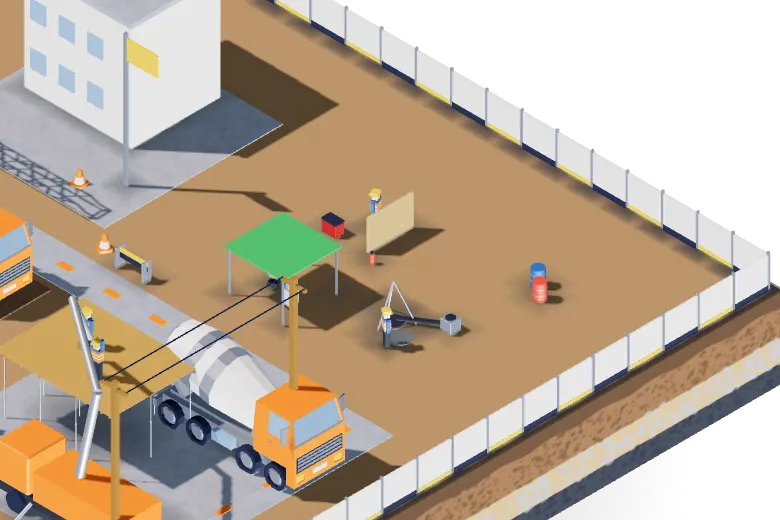
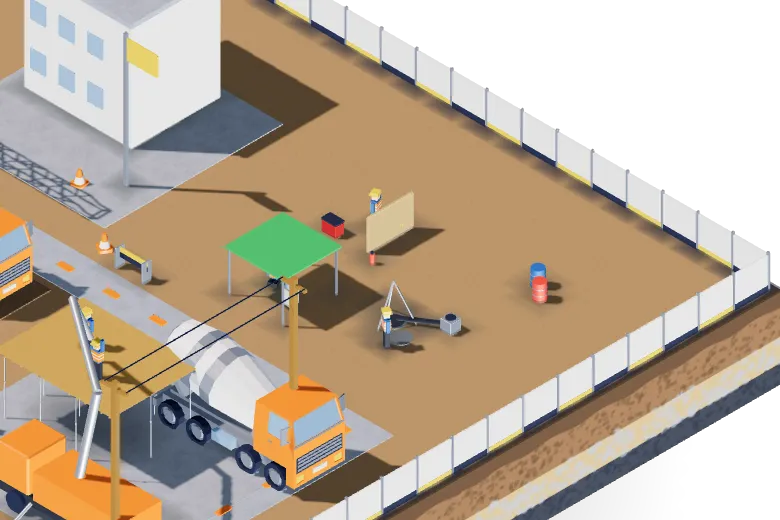
v19.4: 지도의 건설용 리프트 철망을 더 진하게 — 지도용 철망 판만 바탕을 진하게·철선 굵게·색 한 단계 어둡게, 지도·구역 미리 렌더링 다시

diff --git a/js/learn/models/constructionHoist.js b/js/learn/models/constructionHoist.js
@@ -15,11 +15,26 @@
 export const HOIST = { cageW: 3.0, cageD: 1.4, cageH: 2.2, mast: 0.65, section: 1.508, gap: 0.05, gateH: 2.1, enclosureH: 1.8, tieFirst: 6, tieEvery: 18 };
 
 const tok = (n) => getComputedStyle(document.documentElement).getPropertyValue(n).trim() || '#888888';
-let meshTex = null;
+let meshTex = null, meshTexFar = null;
 // 철망: 가는 격자 알파 텍스처 (속이 비쳐 보이게)
 const meshMats = new Map();
-function meshMat(THREE, M, key = 'steel', cell = 0.06) {
-  if (meshMats.has(key) && meshMats.get(key).userData.M === M) return meshMats.get(key);
+// far(지도용): 멀리서 작게 보이므로 바탕을 더 진하게(알파 약 0.55) 하고 철선을 굵게, 색은 한 단계 어둡게 — v19.4
+function farTex(THREE) {
+  if (!meshTexFar) {
+    const c = document.createElement('canvas'); c.width = c.height = 32; const g = c.getContext('2d');
+    g.fillStyle = 'rgb(140,140,140)'; g.fillRect(0, 0, 32, 32); g.strokeStyle = 'rgb(255,255,255)'; g.lineWidth = 6;
+    for (const p of [3]) { g.beginPath(); g.moveTo(p, 0); g.lineTo(p, 32); g.stroke(); g.beginPath(); g.moveTo(0, p); g.lineTo(32, p); g.stroke(); }
+    meshTexFar = new THREE.CanvasTexture(c); meshTexFar.wrapS = meshTexFar.wrapT = THREE.RepeatWrapping;
+  }
+  return meshTexFar;
+}
+function meshMat(THREE, M, key = 'steel', cell = 0.06, far = false) {
+  const mk = far ? key + '|far' : key;
+  if (meshMats.has(mk) && meshMats.get(mk).userData.M === M) return meshMats.get(mk);
+  if (far) {
+    const base = M(key); const m = new THREE.MeshStandardMaterial({ color: base.color.clone().multiplyScalar(0.62), roughness: 0.6, metalness: 0.3, alphaMap: farTex(THREE), transparent: true, alphaTest: 0.05, depthWrite: false, side: THREE.DoubleSide });
+    m.userData = { kind: base.userData?.kind || 'steel', meshCell: cell, M, far: true }; meshMats.set(mk, m); return m;
+  }
   if (!meshTex) {
     const c = document.createElement('canvas'); c.width = c.height = 64; const g = c.getContext('2d');
     g.fillStyle = 'rgb(56,56,56)'; g.fillRect(0, 0, 64, 64); g.strokeStyle = 'rgb(255,255,255)'; g.lineWidth = 6; // 바탕 알파 약 0.22 + 철선 1.0
@@ -27,12 +42,12 @@ function meshMat(THREE, M, key = 'steel', cell = 0.06) {
     meshTex = new THREE.CanvasTexture(c); meshTex.wrapS = meshTex.wrapT = THREE.RepeatWrapping;
   }
   const base = M(key); const m = new THREE.MeshStandardMaterial({ color: base.color.clone(), roughness: 0.5, metalness: 0.45, alphaMap: meshTex, transparent: true, alphaTest: 0.05, depthWrite: false, side: THREE.DoubleSide });
-  m.userData = { kind: base.userData?.kind || 'steel', meshCell: cell, M }; meshMats.set(key, m); return m;
+  m.userData = { kind: base.userData?.kind || 'steel', meshCell: cell, M }; meshMats.set(mk, m); return m;
 }
 // 철망 판 하나 (w × h, 수직, z 쪽을 향함) — 셀 크기를 판 크기에 맞춤
-function meshPanel(THREE, M, w, h, key) {
-  const m = meshMat(THREE, M, key); const geo = new THREE.PlaneGeometry(w, h);
-  const uv = geo.attributes.uv; for (let i = 0; i < uv.count; i++) uv.setXY(i, uv.getX(i) * w / 0.12, uv.getY(i) * h / 0.12);
+function meshPanel(THREE, M, w, h, key, far = false) {
+  const m = meshMat(THREE, M, key, 0.06, far); const geo = new THREE.PlaneGeometry(w, h); const cell = far ? 0.3 : 0.12;
+  const uv = geo.attributes.uv; for (let i = 0; i < uv.count; i++) uv.setXY(i, uv.getX(i) * w / cell, uv.getY(i) * h / cell);
   const p = new THREE.Mesh(geo, m); p.castShadow = true; return p;
 }
 
@@ -59,7 +74,7 @@ export function makeCage(THREE, M, o = {}, RB = null) {
     // 철망 벽: 바깥쪽 옆면·뒤 위쪽
     const sideMesh = meshPanel(THREE, M, D - 0.08, Hh - 0.38, ST); sideMesh.rotation.y = Math.PI / 2; sideMesh.position.set(-side * W / 2, 0.32 + (Hh - 0.38) / 2, 0); cage.add(sideMesh);
     const innerMesh = meshPanel(THREE, M, D - 0.08, Hh - 0.1, ST); innerMesh.rotation.y = Math.PI / 2; innerMesh.position.set(side * W / 2, (Hh - 0.1) / 2 + 0.02, 0); cage.add(innerMesh); // 마스트 쪽
-  } else { for (const sx of [-side, side]) { const pm = meshPanel(THREE, M, D, Hh - 0.32, ST); pm.rotation.y = Math.PI / 2; pm.position.set(sx * W / 2, 0.32 + (Hh - 0.32) / 2, 0); cage.add(pm); } }
+  } else { for (const sx of [-side, side]) { const pm = meshPanel(THREE, M, D, Hh - 0.32, ST, true); pm.rotation.y = Math.PI / 2; pm.position.set(sx * W / 2, 0.32 + (Hh - 0.32) / 2, 0); cage.add(pm); } }
   // 지붕판 + 지붕 위 난간(110cm 상부난간대 + 중간난간대, 별표 3 제16호)
   box(W + 0.06, 0.06, D + 0.06, 'steel', 0, Hh, 0, cage);
   const roof = node('cage_roof_rail', cage);
@@ -72,7 +87,7 @@ export function makeCage(THREE, M, o = {}, RB = null) {
     for (const x of [-fw / 2, fw / 2]) box(0.05, fh, 0.05, FR, x, 0.02, 0, d);
     for (const y of [0.02, fh - 0.03, 1.0]) box(fw, 0.05, 0.05, FR, 0, y, 0, d);
     if (lod === 'near') { const p = meshPanel(THREE, M, fw - 0.06, fh - 0.08, ST); p.position.set(0, fh / 2 + 0.02, 0); d.add(p); }
-    else { const p = meshPanel(THREE, M, fw, fh, ST); p.position.set(0, fh / 2 + 0.02, 0); d.add(p); }
+    else { const p = meshPanel(THREE, M, fw, fh, ST, true); p.position.set(0, fh / 2 + 0.02, 0); d.add(p); }
     return d;
   };
   // 앞문(층 쪽): 경사로식 — 아래 경첩, 열리면 바깥으로 눕혀져 층 발판 위에 걸치는 발판이 됨 (제조사 "gate and ramp" 방식, 모양 참고)
@@ -111,7 +126,7 @@ export function makeLandingGate(THREE, M, o = {}, RB = null) {
     for (const x of [-lw / 2, lw / 2]) box(0.045, H - 0.05, 0.045, FR, x, 0.04, 0, l);
     for (const y of [0.04, H - 0.06, 1.0]) box(lw, 0.045, 0.045, FR, 0, y, 0, l);
     if (lod === 'near') { const p = meshPanel(THREE, M, lw - 0.05, H - 0.12, 'steel'); p.position.set(0, H / 2, 0); l.add(p); }
-    else { const p = meshPanel(THREE, M, lw, H - 0.1, 'steel'); p.position.set(0, H / 2, 0); l.add(p); }
+    else { const p = meshPanel(THREE, M, lw, H - 0.1, 'steel', true); p.position.set(0, H / 2, 0); l.add(p); }
   };
   leaf(-1); leaf(1);
   // 열린 문짝이 밀려 들어갈 옆 고정 철망 (문틀 밖)
@@ -149,7 +164,7 @@ export function makeConstructionHoist(THREE, M, opts = {}, RB = null) {
     if (lod === 'near') for (const [x, z] of cs) box(0.13, 0.025, 0.13, GALV, x, y0 - 0.012, mastZ + z, mast); // 섹션 이음판(플랜지)
   }
   box(m + 0.1, 0.05, m + 0.1, GALV, 0, top, mastZ, mast); // 최상단 덮개
-  if (lod === 'far') for (let f = 0; f < 4; f++) { const p = meshPanel(THREE, M, m, top - 0.2, 'steel:--art-dark'); p.rotation.y = (f * Math.PI) / 2; p.position.set(Math.sin(f * Math.PI / 2) * m / 2, 0.15 + (top - 0.2) / 2, mastZ + Math.cos(f * Math.PI / 2) * m / 2); mast.add(p); }
+  if (lod === 'far') for (let f = 0; f < 4; f++) { const p = meshPanel(THREE, M, m, top - 0.2, 'steel:--art-dark', true); p.rotation.y = (f * Math.PI) / 2; p.position.set(Math.sin(f * Math.PI / 2) * m / 2, 0.15 + (top - 0.2) / 2, mastZ + Math.cos(f * Math.PI / 2) * m / 2); mast.add(p); }
   // 랙: 운반구 쪽 면(±x)에 세로 톱니 막대
   const rack = node('rack', root);
   for (const s of sides) {
@@ -168,7 +183,7 @@ export function makeConstructionHoist(THREE, M, opts = {}, RB = null) {
   const fence = (a, b, skipMid) => { const len = Math.hypot(b[0] - a[0], b[1] - a[1]), n = Math.max(1, Math.round(len / 2)); for (let i = 0; i <= n; i++) box(0.06, eH, 0.06, 'paint:yellow', a[0] + (b[0] - a[0]) * i / n, 0, a[1] + (b[1] - a[1]) * i / n, enc);
     for (let i = 0; i < n; i++) { if (skipMid && i === Math.floor(n / 2)) { const xa = a[0] + (b[0] - a[0]) * i / n, xb = a[0] + (b[0] - a[0]) * (i + 1) / n; encDoor = { x0: xa, x1: xb, z: a[1] }; continue; } const x0 = a[0] + (b[0] - a[0]) * i / n, z0 = a[1] + (b[1] - a[1]) * i / n, x1 = a[0] + (b[0] - a[0]) * (i + 1) / n, z1 = a[1] + (b[1] - a[1]) * (i + 1) / n, sl = Math.hypot(x1 - x0, z1 - z0);
       if (lod === 'near') { const p = meshPanel(THREE, M, sl - 0.06, eH - 0.12, 'steel'); p.position.set((x0 + x1) / 2, eH / 2 + 0.04, (z0 + z1) / 2); p.rotation.y = -Math.atan2(z1 - z0, x1 - x0); enc.add(p); }
-      else { const p = meshPanel(THREE, M, sl - 0.06, eH - 0.1, 'steel'); p.position.set((x0 + x1) / 2, eH / 2, (z0 + z1) / 2); p.rotation.y = -Math.atan2(z1 - z0, x1 - x0); enc.add(p); }
+      else { const p = meshPanel(THREE, M, sl - 0.06, eH - 0.1, 'steel', true); p.position.set((x0 + x1) / 2, eH / 2, (z0 + z1) / 2); p.rotation.y = -Math.atan2(z1 - z0, x1 - x0); enc.add(p); }
       if (lod === 'near') rod([x0, eH, z0], [x1, eH, z1], 0.025, 'paint:yellow', enc); } };
   fence([-ex / 2, ez1], [ex / 2, ez1], true); fence([-ex / 2, ez0], [-ex / 2, ez1]); fence([ex / 2, ez0], [ex / 2, ez1]);
   // 방호울 출입문 (철망 + 노랑 테, 닫힘). 장면에서 열고 닫을 때는 이 노드를 숨기고 makeEnclosureDoor 로 따로 그림

diff --git a/sw.js b/sw.js
@@ -1,5 +1,5 @@
 // 첫 삽 서비스 워커 — 앱 파일은 미리 저장(오프라인 실행), 글꼴은 처음 받을 때 저장, 날씨·Firebase는 항상 네트워크
-const VERSION = 'cheotsap-v19.3';
+const VERSION = 'cheotsap-v19.4';
 const CORE = [
   './', './index.html', './game.html', './css/tokens.css', './css/learn.css', './js/learn/app.js', './js/learn/mascot.js', './js/learn/site3d.js', './js/learn/scene3d.js', './js/learn/props3d.js', './data/prerender.json',
   // v18: 재질 세트·근로자 모델·베벨·CC0 모델·질감·HDRI

diff --git a/docs/첫삽_프로젝트_개요.md b/docs/첫삽_프로젝트_개요.md
@@ -117,6 +117,7 @@
 | **v19.1** | **11/24** | **건설용 리프트 재제작** — 마스트·랙·운반구·층 출입문·연결 발판·하부 방호울·완충기, 별표 3 기준 치수, 층 출입문 장면 쌍: 랙앤피니언식 리프트를 코드로 새로 만듦(`models/constructionHoist.js`, 부품마다 이름 붙인 노드, 장면용 약 10만 면 / 지도용 1,988면) · 마스트(1.508m 섹션·가새), 랙 톱니, 벽 연결재(6m 이내·18m 이내), 운반구(3.0×1.4×2.2, 경사로식 앞문, 지붕 난간, 구동부, 조작반, 적재하중 그림 표시), 층 출입문(경광등)·연결 발판(1.1m 난간), 하부 방호울 1.8m·방호선반, 완충기, 케이블 · 3-3 "문이 열린 리프트"를 3층 슬래브 위 근로자 눈높이로(위험: 운반구가 한 층 위, 열린 문 너머 빈 승강로 / 안전: 운반구 도착, 앞문이 발판 위로 내려옴) · 양중 장면을 층이 보이는 골조 + 슬래브 끝 난간으로 · 지도 양중 구역에 리프트(운반구가 층 사이를 오르내림, 동작 줄이기면 정지) · 근거 `sources.json`에 「위험기계·기구 안전인증 고시」(제2023-46호) [별표 3] 제9·14·15·16호 5건(원문확인) · `docs/장면검수.md`, `art/spec/참고링크.md` | 사용자: 리프트가 벽에 붙은 노란 상자처럼 보여 알아볼 수 없다 (v19 리프트 상세 프롬프트). 영상은 열 수 없어 "구글에 검색해서 알아서 제작" 지시에 따라 웹 자료로 형태를 정함 | 완료 |
 | **v19** | **11/24** | **v19: 문제마다 상황 문장(글→그림→선택), 주목 영역 스포트라이트, 그림만 모드 아이콘 띠, 한 장면 한 판단 원칙으로 장면 재구성, 랙앤피니언 건설용 리프트 재제작** — 위험 31개마다 `scenes.json`에 `situation`(상황 문장, 굵은 말 = 그림 속 번호 표식, 답은 말하지 않음, 출처·status) · `iconStrip`([누가]+[어디서]+[무엇을]+? 그림 문장 띠) · `diffPart`(차이 부분) · 가요/멈춰요: 그림 문장 띠 + 상황 문장 + 질문 → 그림 0.5초 → 주목 영역 스포트라이트(주변 30% 어둡게, 주황 점선 원 1초) → 선택 버튼 켜짐, "다시 보기"(눈) · 답한 뒤 맞아도 틀려도 "왜" 화면(위험/안전 두 장 + 차이 부분 확대 원·돋보기 + 한 줄 + 근거 배지) · 찾은 위험 카드·현장 안전 카드에 상황 문장 · 장소·행동 아이콘 27개 새로 그림 · 비교 그림마다 주목 영역·번호 표식·차이 부분 위치를 3D에서 계산해 `prerender.json`에 · 장면 재구성: 2-1(같은 층 발판 위 눈높이), 2-3(가까이, 앞 소품 치움), 1-2·2-4·4-3·5-1·6-4(가까이·눈높이), 3-1·6-3 구도 조정, 양중 장면 넓게 · **새 위험 2개**: 3-5 적재하중을 넘겨 실은 운반구(안전보건규칙 제135조, 별표 3 제16호), 3-6 리프트 방호울 안에 들어간 사람(안전보건규칙 제20조 제6호 가목, 별표 3 제14호, 기본서 12쪽) — 위험 29→31개 · `docs/장면검수.md` 31개 장면 3초 테스트(합격 30, 보통 1) | 사용자: 문제를 풀 때 그림에서 무엇을 보고 골라야 하는지 모르겠다(건축공학 4년 배운 사람도), 리프트를 알아볼 수 없다 (v19 프롬프트) · "새 위험 2개 추가하고 구성 남은 것도 진행" | 완료 (그림만 모드는 v14부터 꺼져 있어 아이콘 띠를 글과 함께 늘 보여 줌) |
 | v19.3 | 11/24 | 건설용 리프트 "안 그려진 부분" 고침 — 철망(운반구 벽·층 출입문·하부 방호울)이 멀리서 사라지던 문제: 가는 선만 남기던 방식을 옅은 바탕 + 진한 철선(알파 섞기)으로 바꿔 거리와 상관없이 연회색 망으로 보이게 · 지도용 리프트도 반투명 상자 대신 철망 판, 마스트는 네 면을 격자로 감싼 사각 기둥(1,956면) · 양중 장면·지도 다시 렌더링 | 사용자: 그림에 안 그려진 부분이 있다(건설용 리프트) | 완료 |
+| v19.4 | 11/24 | 지도(현장 한 바퀴)의 건설용 리프트 철망을 더 진하게 — 지도용(far) 철망 판만 따로: 바탕 알파 약 0.22 → 0.55, 철선 굵게(칸 0.12 → 0.3m), 색 한 단계 어둡게. 지도·구역 미리 렌더링 다시 | v19.3 보고 뒤 사용자 요청("진하게 해") — 지도에서 운반구 철망이 옅게 보임 | 완료 |
 | v20 | ~11/30 | 장면 점검 A·B형, 전문가 검토 반영, 예비 시험 준비, 실기기 성능 측정 | | 예정 |
 | 최종 | 12/7 | 캡스톤 마무리·발표 | | 예정 |
 

diff --git a/CHANGELOG.md b/CHANGELOG.md
@@ -24,5 +24,6 @@
 | **v19.1** | **11/24** | **건설용 리프트 재제작** — 마스트·랙·운반구·층 출입문·연결 발판·하부 방호울·완충기, 별표 3 기준 치수, 층 출입문 장면 쌍: 랙앤피니언식 리프트를 코드로 새로 만듦(`models/constructionHoist.js`, 부품마다 이름 붙인 노드, 장면용 약 10만 면 / 지도용 1,988면) · 마스트(1.508m 섹션·가새), 랙 톱니, 벽 연결재(6m 이내·18m 이내), 운반구(3.0×1.4×2.2, 경사로식 앞문, 지붕 난간, 구동부, 조작반, 적재하중 그림 표시), 층 출입문(경광등)·연결 발판(1.1m 난간), 하부 방호울 1.8m·방호선반, 완충기, 케이블 · 3-3 "문이 열린 리프트"를 3층 슬래브 위 근로자 눈높이로(위험: 운반구가 한 층 위, 열린 문 너머 빈 승강로 / 안전: 운반구 도착, 앞문이 발판 위로 내려옴) · 양중 장면을 층이 보이는 골조 + 슬래브 끝 난간으로 · 지도 양중 구역에 리프트(운반구가 층 사이를 오르내림, 동작 줄이기면 정지) · 근거 `sources.json`에 「위험기계·기구 안전인증 고시」(제2023-46호) [별표 3] 제9·14·15·16호 5건(원문확인) · `docs/장면검수.md`, `art/spec/참고링크.md` | 사용자: 리프트가 벽에 붙은 노란 상자처럼 보여 알아볼 수 없다 (v19 리프트 상세 프롬프트). 영상은 열 수 없어 "구글에 검색해서 알아서 제작" 지시에 따라 웹 자료로 형태를 정함 | 완료 |
 | **v19** | **11/24** | **v19: 문제마다 상황 문장(글→그림→선택), 주목 영역 스포트라이트, 그림만 모드 아이콘 띠, 한 장면 한 판단 원칙으로 장면 재구성, 랙앤피니언 건설용 리프트 재제작** — 위험 31개마다 `scenes.json`에 `situation`(상황 문장, 굵은 말 = 그림 속 번호 표식, 답은 말하지 않음, 출처·status) · `iconStrip`([누가]+[어디서]+[무엇을]+? 그림 문장 띠) · `diffPart`(차이 부분) · 가요/멈춰요: 그림 문장 띠 + 상황 문장 + 질문 → 그림 0.5초 → 주목 영역 스포트라이트(주변 30% 어둡게, 주황 점선 원 1초) → 선택 버튼 켜짐, "다시 보기"(눈) · 답한 뒤 맞아도 틀려도 "왜" 화면(위험/안전 두 장 + 차이 부분 확대 원·돋보기 + 한 줄 + 근거 배지) · 찾은 위험 카드·현장 안전 카드에 상황 문장 · 장소·행동 아이콘 27개 새로 그림 · 비교 그림마다 주목 영역·번호 표식·차이 부분 위치를 3D에서 계산해 `prerender.json`에 · 장면 재구성: 2-1(같은 층 발판 위 눈높이), 2-3(가까이, 앞 소품 치움), 1-2·2-4·4-3·5-1·6-4(가까이·눈높이), 3-1·6-3 구도 조정, 양중 장면 넓게 · **새 위험 2개**: 3-5 적재하중을 넘겨 실은 운반구(안전보건규칙 제135조, 별표 3 제16호), 3-6 리프트 방호울 안에 들어간 사람(안전보건규칙 제20조 제6호 가목, 별표 3 제14호, 기본서 12쪽) — 위험 29→31개 · `docs/장면검수.md` 31개 장면 3초 테스트(합격 30, 보통 1) | 사용자: 문제를 풀 때 그림에서 무엇을 보고 골라야 하는지 모르겠다(건축공학 4년 배운 사람도), 리프트를 알아볼 수 없다 (v19 프롬프트) · "새 위험 2개 추가하고 구성 남은 것도 진행" | 완료 (그림만 모드는 v14부터 꺼져 있어 아이콘 띠를 글과 함께 늘 보여 줌) |
 | v19.3 | 11/24 | 건설용 리프트 "안 그려진 부분" 고침 — 철망(운반구 벽·층 출입문·하부 방호울)이 멀리서 사라지던 문제: 가는 선만 남기던 방식을 옅은 바탕 + 진한 철선(알파 섞기)으로 바꿔 거리와 상관없이 연회색 망으로 보이게 · 지도용 리프트도 반투명 상자 대신 철망 판, 마스트는 네 면을 격자로 감싼 사각 기둥(1,956면) · 양중 장면·지도 다시 렌더링 | 사용자: 그림에 안 그려진 부분이 있다(건설용 리프트) | 완료 |
+| v19.4 | 11/24 | 지도(현장 한 바퀴)의 건설용 리프트 철망을 더 진하게 — 지도용(far) 철망 판만 따로: 바탕 알파 약 0.22 → 0.55, 철선 굵게(칸 0.12 → 0.3m), 색 한 단계 어둡게. 지도·구역 미리 렌더링 다시 | v19.3 보고 뒤 사용자 요청("진하게 해") — 지도에서 운반구 철망이 옅게 보임 | 완료 |
 | v20 | ~11/30 | 장면 점검 A·B형, 전문가 검토 반영, 예비 시험 준비, 실기기 성능 측정 | | 예정 |
 | 최종 | 12/7 | 캡스톤 발표 | | 예정 |

diff --git a/docs/모델_치수.md b/docs/모델_치수.md
@@ -75,3 +75,4 @@
 - 성능: GLB가 아니라 코드 모델이어서 에셋 파일은 0바이트입니다(코드 약 15KB). 장면용 전체(마스트 16.5m, 4개 층 출입문, 운반구 2대)는 약 10만 면이고, 미리 렌더링에만 씁니다. 지도용 단순 버전(`lod:'far'`, 운반구 1대, 2개 층)은 1,988면입니다(2,000면 이하).
 
 - 철망 표현(v19.3): 철망 판은 알파 텍스처(바탕 약 0.22 + 철선 1.0)를 섞어 그립니다. 가는 선을 잘라 내는 방식(alphaTest)은 멀리서 선이 흐려지면 판 전체가 사라져 v19.3에서 바꿨습니다.
+- 지도용 철망(v19.4): 지도에서는 리프트가 작게 보여 철망이 옅어지므로, far 철망 판만 바탕 알파 약 0.55 · 칸 0.3m · 색 62% 밝기의 별도 재질(`meshMat(..., far=true)`)로 그립니다. 가까이 보는 위험 장면(near)은 v19.3 그대로입니다.
